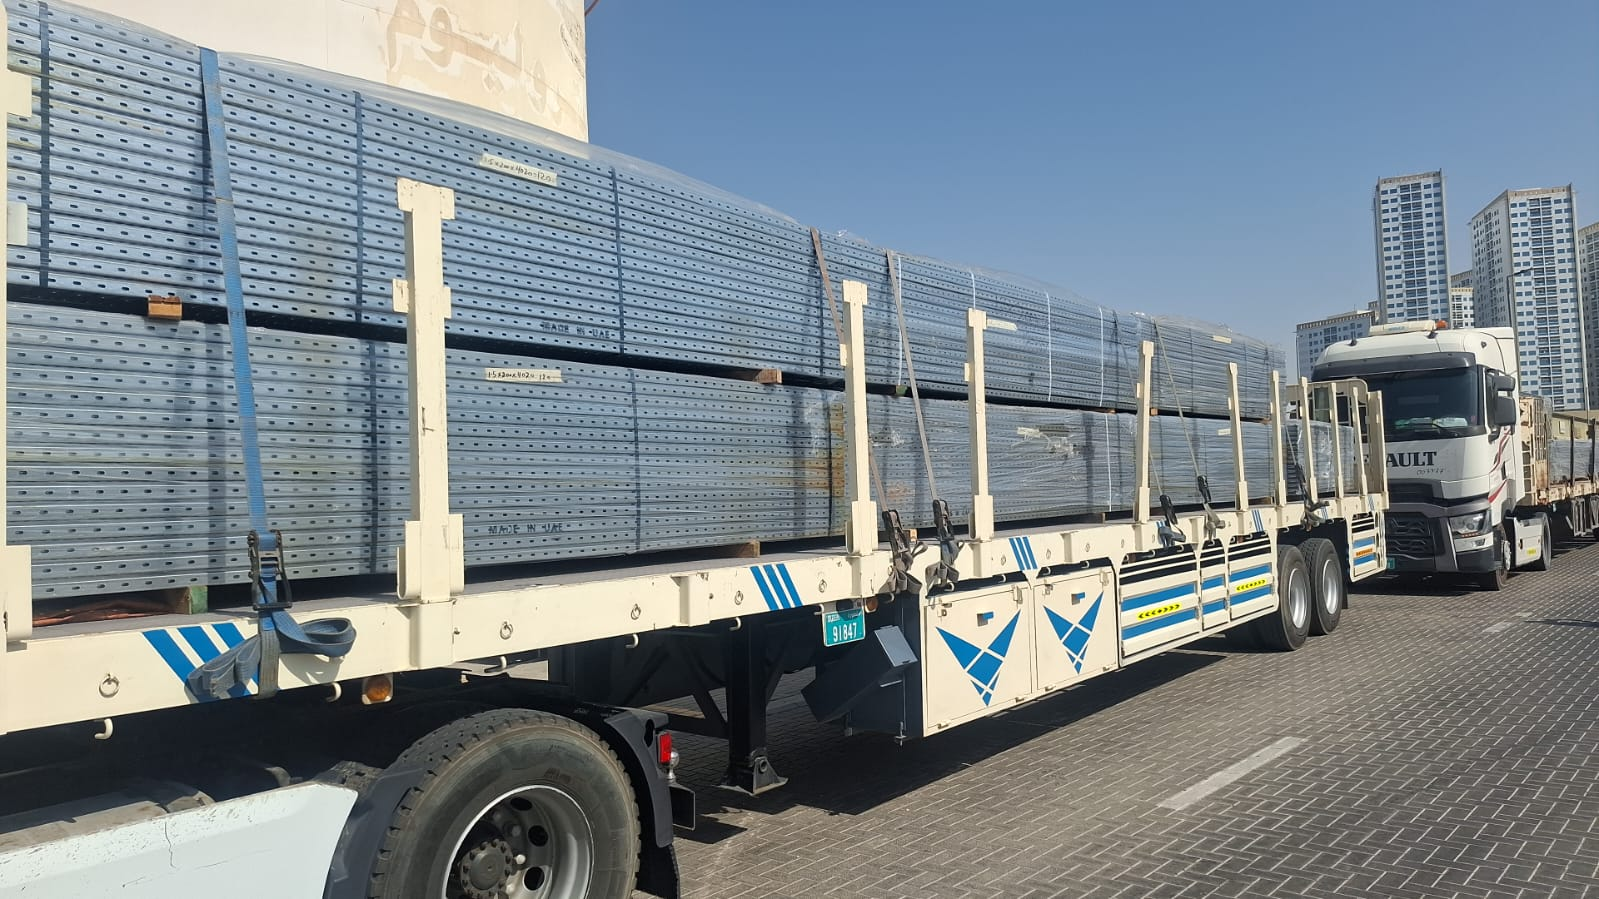
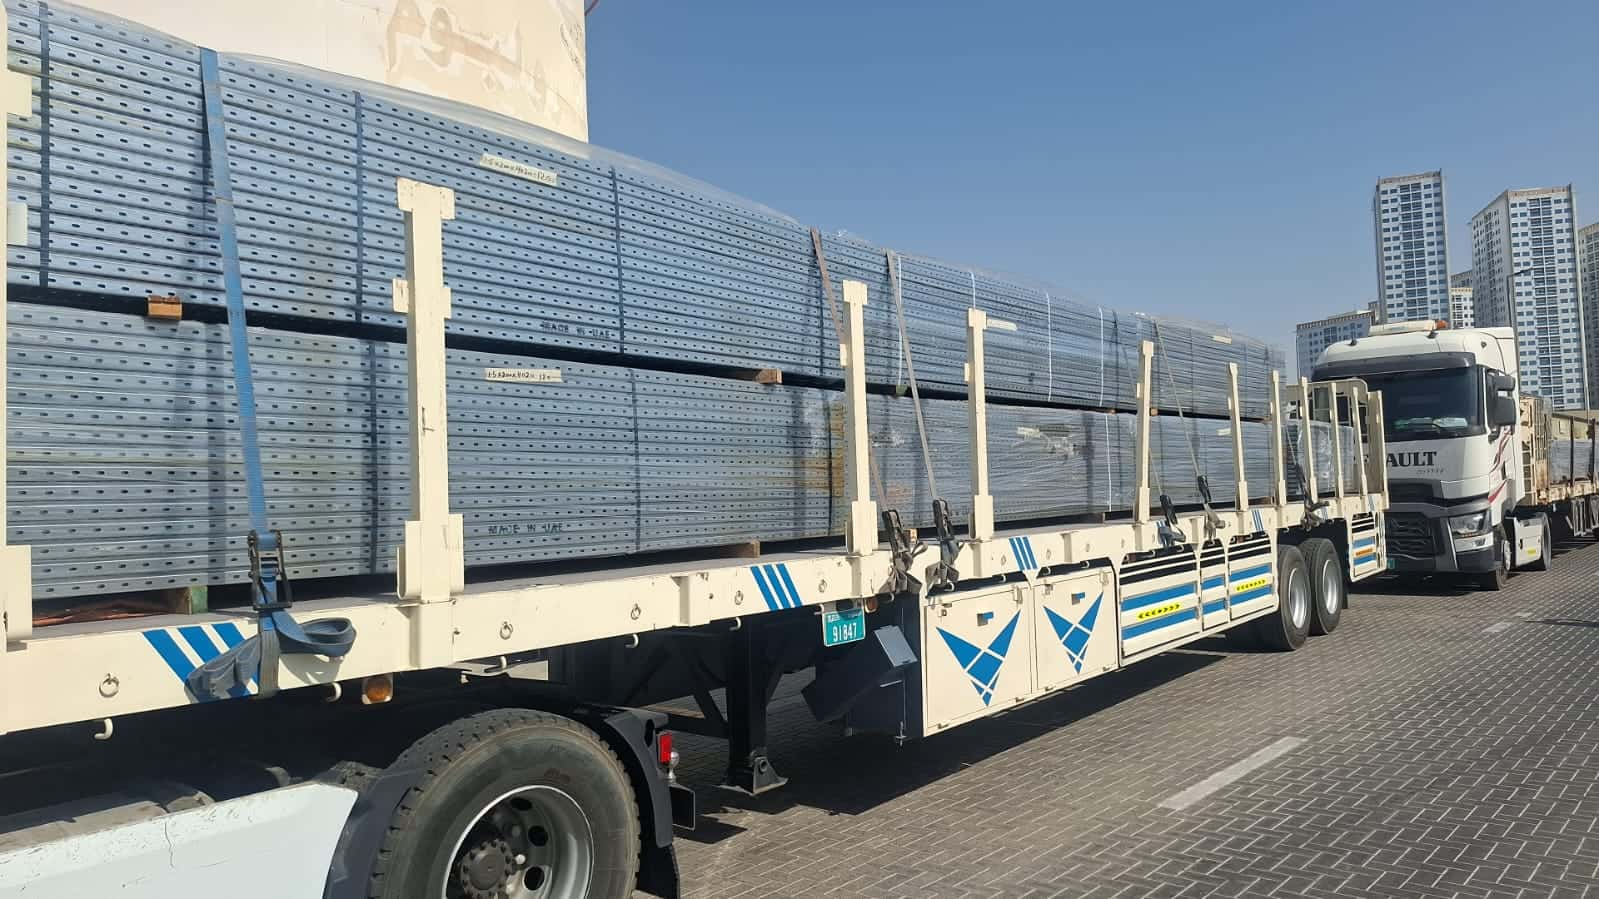
added optimized image

diff --git a/src/pages/About.tsx b/src/pages/About.tsx
@@ -114,7 +114,7 @@ const About = () => {
           <div className="order-1 lg:order-2 bg-gray-100 rounded-lg overflow-hidden  flex items-center justify-center">
             <div className="flex justify-center items-center h-full">
               <img
-                src="/lovable-uploads/aboutBanner.png"
+                src="/lovable-uploads/aboutBanner.jpg"
                 alt="GravityShift Symbol"
                 // className="w-96 h-96 animate-spin duration-custom ease-linear infinite origin-center"
                 className="w-full h-full"

diff --git a/src/components/home/Hero.tsx b/src/components/home/Hero.tsx
@@ -21,7 +21,7 @@ const Hero = ({ videoSrc }: HeroProps) => {
       <div
         className="absolute inset-0 bg-center bg-cover bg-no-repeat brightness-50 z-0"
         style={{
-          backgroundImage: "url('/lovable-uploads/homeBanner.png')",
+          backgroundImage: "url('/lovable-uploads/homeBanner.jpg')",
         }}
       ></div>
 

diff --git a/src/pages/Contact.tsx b/src/pages/Contact.tsx
@@ -54,7 +54,7 @@ const Contact = () => {
         // }}
         >
         <img
-          src="/lovable-uploads/picture2.png"
+          src="/lovable-uploads/picture2.jpg"
           alt="Banner"
           className="top-0 left-0 absolute -z-10 w-full h-full object-cover brightness-50"
         />
